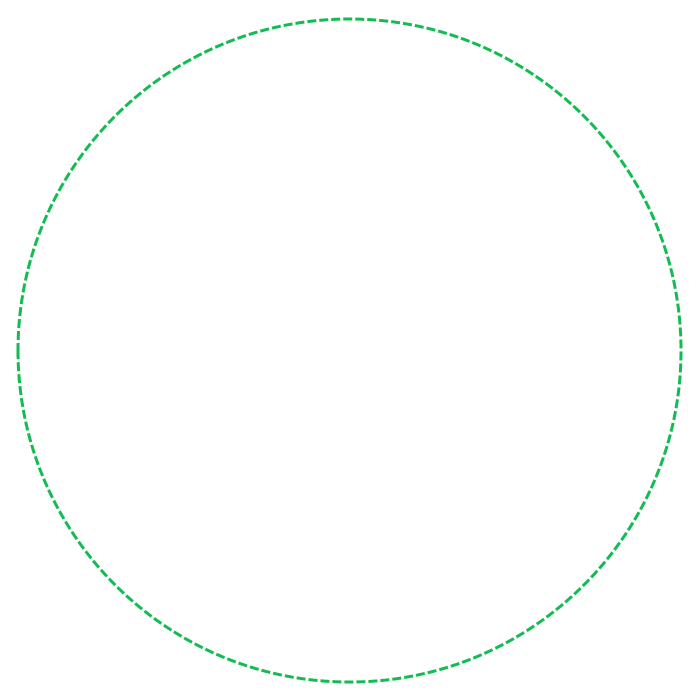
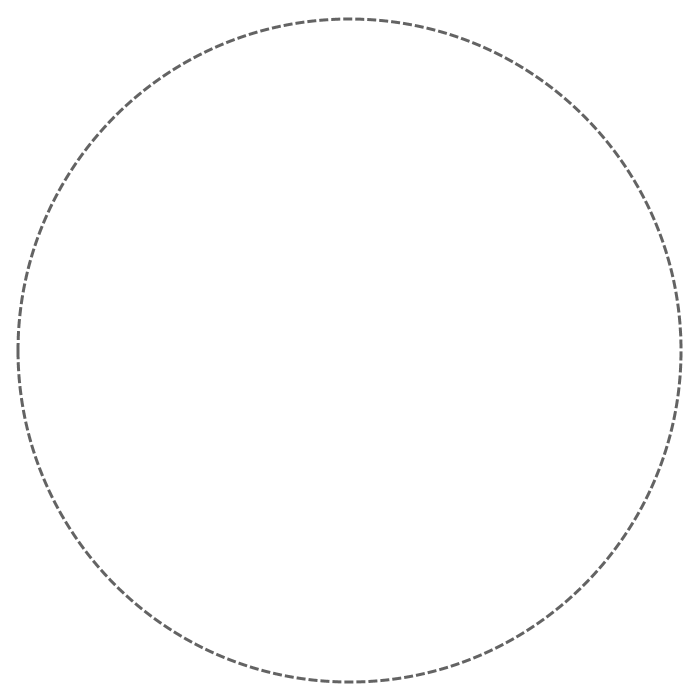
- Color change depend on theme

diff --git a/src/GSAction/GSAction.js b/src/GSAction/GSAction.js
@@ -9,6 +9,8 @@ var g_gsActionBattleLayer = cc.Layer.create();
 
 var g_gsActionUILayer = cc.Layer.create();
 	g_gsActionUILayer.retain();
+	
+var g_colorTheme = cc.color(40, 255, 120);
 
 g_gsActionUILayer.Init = function () {
 	
@@ -49,6 +51,9 @@ g_gsActionUILayer.Reset = function() {
 g_gsActionUILayer.update = function (deltaTime) {
 	if (g_background) g_background.Update (deltaTime);
 	if (g_battle) g_battle.Update (deltaTime);
+	
+	if (g_background) g_background.UpdateVisual ();
+	if (g_battle) g_battle.UpdateVisual ();
 }
 
 

diff --git a/src/GSAction/Battle/Player.js b/src/GSAction/Battle/Player.js
@@ -47,7 +47,11 @@ function Player (layer) {
 		
 		this.m_x = CANVAS_W * 0.5 - PLAYER_DISTANCE_FROM_CENTER * Math.sin(this.m_angle * DEG_TO_RAD);
 		this.m_y = CANVAS_H * 0.5 - PLAYER_DISTANCE_FROM_CENTER * Math.cos(this.m_angle * DEG_TO_RAD);
+		
+	}
+	this.UpdateVisual = function() {
 		this.m_sprite.setRotation (this.m_angle);
 		this.m_sprite.setPosition (cc.p(this.m_x, this.m_y));
+		this.m_sprite.setColor (g_colorTheme);
 	}
 }

diff --git a/src/GSAction/Background/Background.js b/src/GSAction/Background/Background.js
@@ -20,4 +20,11 @@ function Background(layer) {
 			m_objects[i].Update(deltaTime);
 		}
 	}
+	
+	this.UpdateVisual = function () {
+		for (var i=0; i<m_objects.length; i++) {
+			m_objects[i].UpdateVisual();
+		}
+		this.m_sprite.setColor (g_colorTheme);
+	}
 }

diff --git a/src/GSAction/Background/BGObject.js b/src/GSAction/Background/BGObject.js
@@ -51,6 +51,10 @@ function BGObject (layer, type) {
 		if (this.m_y < -200) {
 			this.Respawn();
 		}
+	}
+	
+	this.UpdateVisual = function() {
 		this.m_sprite.setPosition (cc.p(this.m_x, this.m_y));
+		this.m_sprite.setColor (g_colorTheme);
 	}
 }

diff --git a/src/GSAction/Battle/Battle.js b/src/GSAction/Battle/Battle.js
@@ -18,6 +18,12 @@ function Battle(layer) {
 		this.m_player.Update (deltaTime);
 	}
 	
+	this.UpdateVisual = function() {
+		this.m_player.UpdateVisual ();
+		
+		this.m_orbitSprite.setColor (g_colorTheme);
+	}
+	
 
 	
 	
